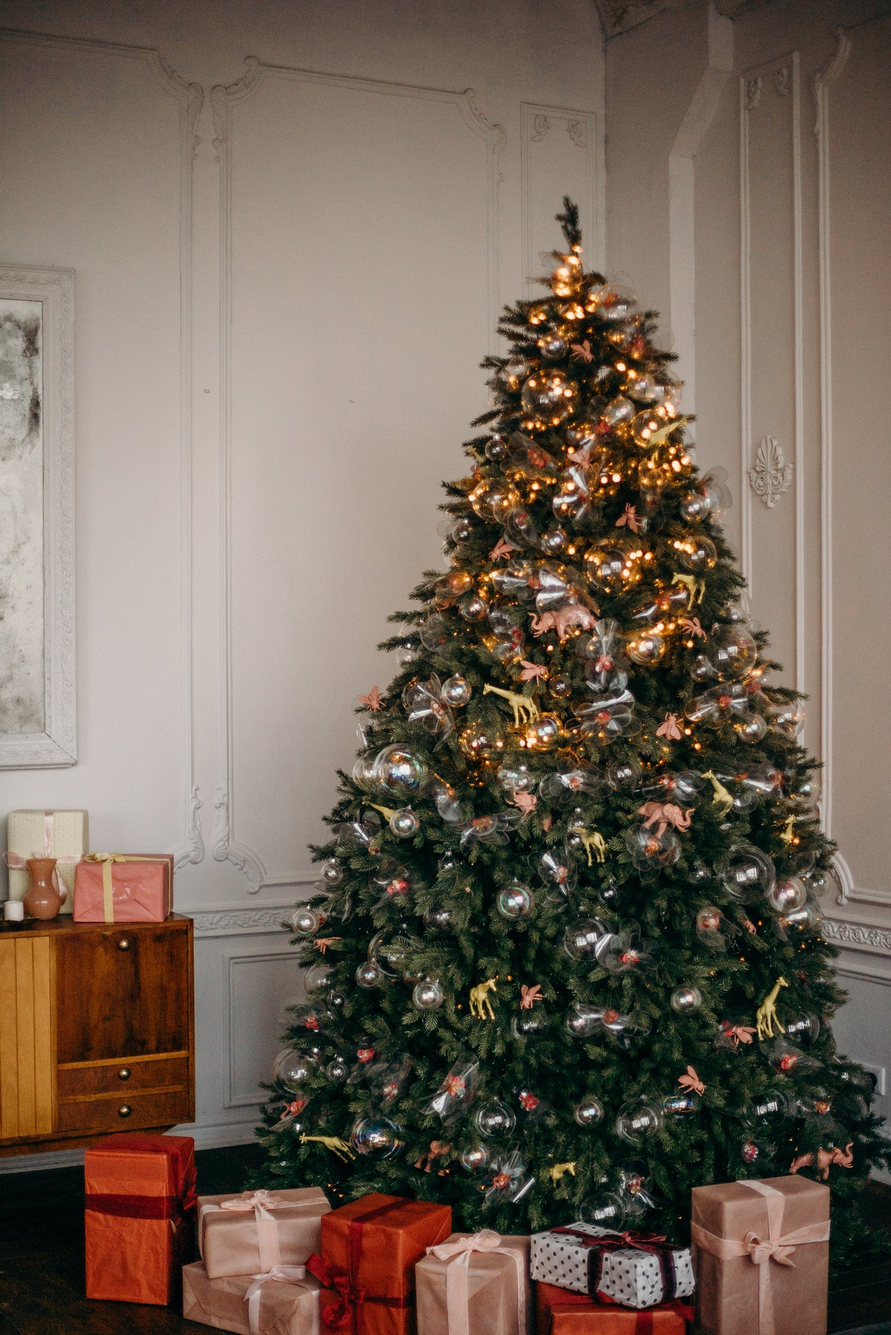
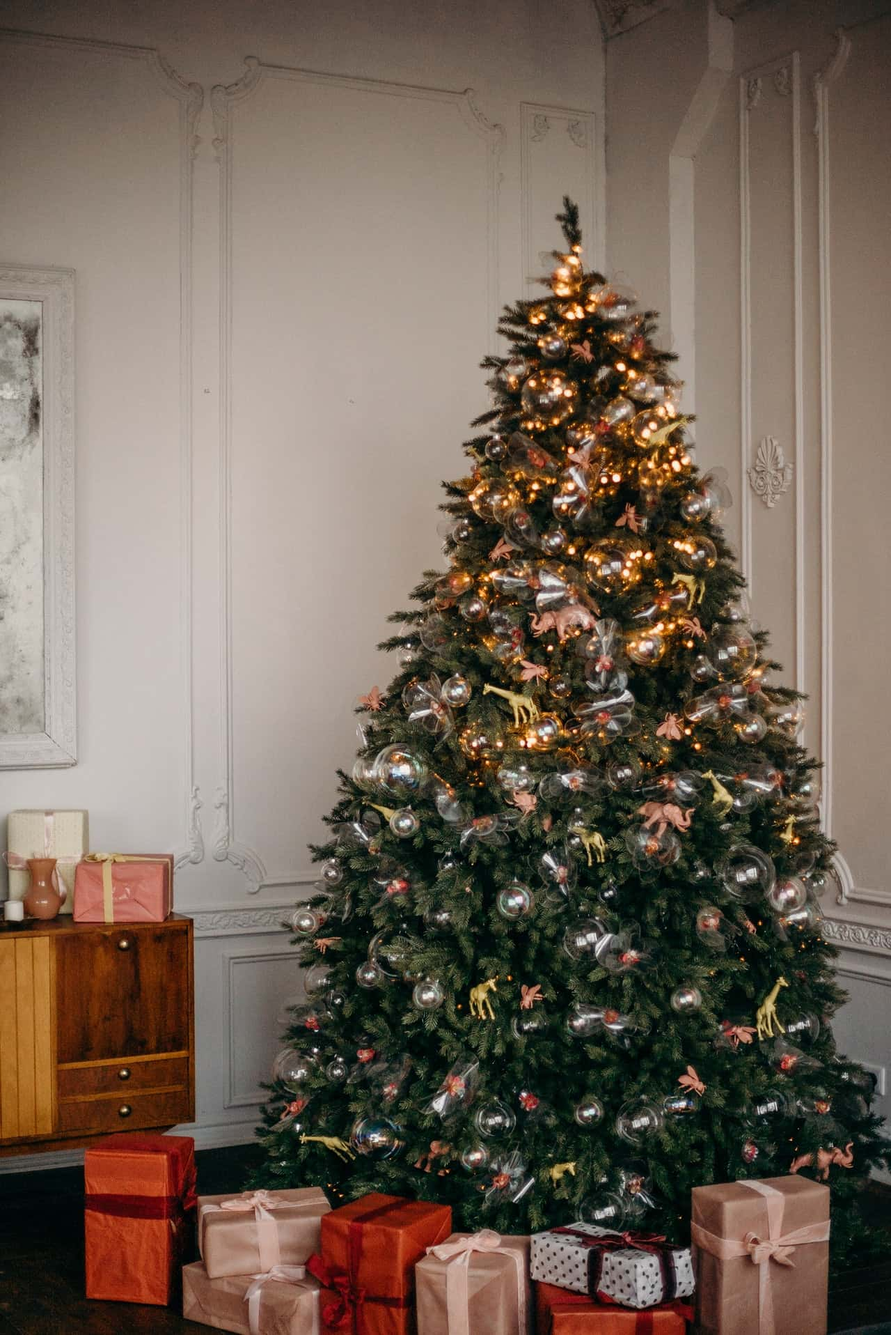
:art: modification des images pour qu'elles soient plus légères + ajout de nick cage le goat

diff --git a/README.md b/README.md
@@ -38,7 +38,9 @@ INSERT INTO `image` (`id`, `name`, `src`, `author`) VALUES
 (5, 'Paysage 1', 'paysage_1.jpg', 'test'),
 (6, 'Paysage 2', 'paysage_2.jpg', 'test'),
 (7, 'Ville 1', 'ville_1.jpg', 'test'),
-(8, 'Ville 2', 'ville_2.jpg', 'test');
+(8, 'Ville 2', 'ville_2.jpg', 'test'),
+(9, 'Nicolas Cage 1', 'nicolas_cage_2.jpg', 'test'),
+(10, 'Nicolas Cage 2', 'nicolas_cage_2.jpg', 'test');
 
 INSERT INTO `tag` (`id`, `name`) VALUES
 (1, 'noel'),
